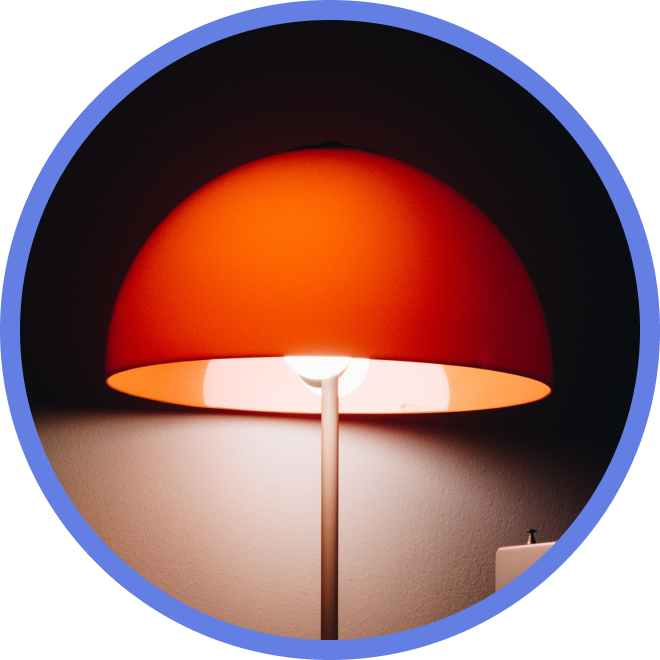
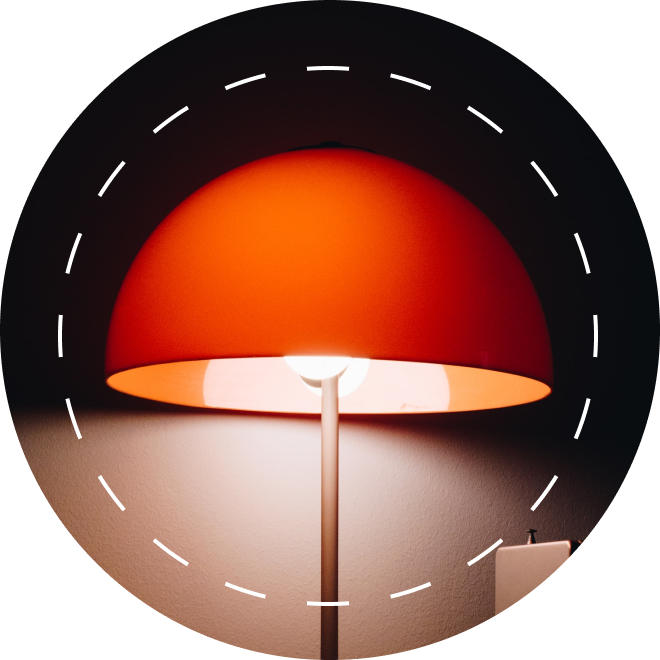
build: remake bagian about

diff --git a/index.html b/index.html
@@ -249,26 +249,26 @@
       <!-- About -->
       <main id="about" class="px-4 group">
         <div class="flex items-center justify-center flex-col mb-44 xs:mb-52 sm:mb-60 md:mb-44 lg:mb-52">
-          <h1 class="text-6xl font-extrabold tracking-wide">Get to know Us</h1>
-          <div class="w-36 h-3.5 bg-blue-600 mt-2 rounded-xl"></div>
+          <h1 class="text-6xl dark:text-white font-extrabold tracking-wide">Get to know Us</h1>
+          <div class="w-36 h-3.5 bg-blue-600 dark:bg-blue-300 mt-2 rounded-xl"></div>
         </div>
         <div class="grid md:grid-cols-2 justify-items-center items-start gap-y-40 xs:gap-y-52 md:gap-0">
-          <div class="about-card sm:w-4/5 -mt-4 bg-blue-600 rounded-2xl px-12 pb-16">
+          <div class="about-card sm:w-4/5 -mt-4 bg-blue-600 dark:bg-blue-300 rounded-2xl px-12 pb-16">
             <div class="flex justify-center" style="margin-top: -35%">
-              <img src="src/img/hero.png" class="w-4/6 md:w-4/5" />
+              <img src="src/img/hero.png" class="w-4/6 md:w-4/5 rounded-full border-8 border-solid border-blue-600 dark:border-blue-300" />
             </div>
-            <div class="text-white">
+            <div class="text-white dark:text-gray-900">
               <h2 class="text-3xl md-text-4xl font-extrabold mt-10 mb-4">The Community</h2>
               <p class="font-medium">
                 Bellshade adalah organisasi yang bergerak di bidang edukasi dan bersifat sumber terbuka (open source). Bellshade dikelola dan berada di bawah naungan komunitas Web Programming UNPAS (WPU).
               </p>
             </div>
           </div>
-          <div class="about-card sm:w-4/5 bg-blue-600 rounded-2xl px-12 pb-16">
+          <div class="about-card sm:w-4/5 bg-blue-600 dark:bg-blue-300 rounded-2xl px-12 pb-16">
             <div class="flex justify-center" style="margin-top: -35%">
-              <img src="src/img/hero.png" class="w-4/6 md:w-4/5" />
+              <img src="src/img/hero.png" class="w-4/6 md:w-4/5 rounded-full border-8 border-solid border-blue-600 dark:border-blue-300" />
             </div>
-            <div class="text-white">
+            <div class="text-white dark:text-gray-900">
               <h2 class="text-3xl md-text-4xl font-extrabold mt-10 mb-4">Our Motivation</h2>
               <p class="font-medium">
                 Nama Bellshade sendiri diambil dari bahasa Inggris yang berarti "penutup lampu belajar" yang mengarahkan cahaya dari lampu agar fokus pada tujuan dan tepat sasaran. Dengan nama ini, Bellshade diharapkan dapat

diff --git a/vite.config.js b/vite.config.js
@@ -1,6 +1,6 @@
 const { defineConfig } = require('vite')
 
-const base = process.env.BASE === 'forked' ? '/bellshade.github.io/' : '/'
+const base = process.env.BASE === 'forked' ? '/bellshade-website/' : '/'
 
 module.exports = defineConfig({
   base,
